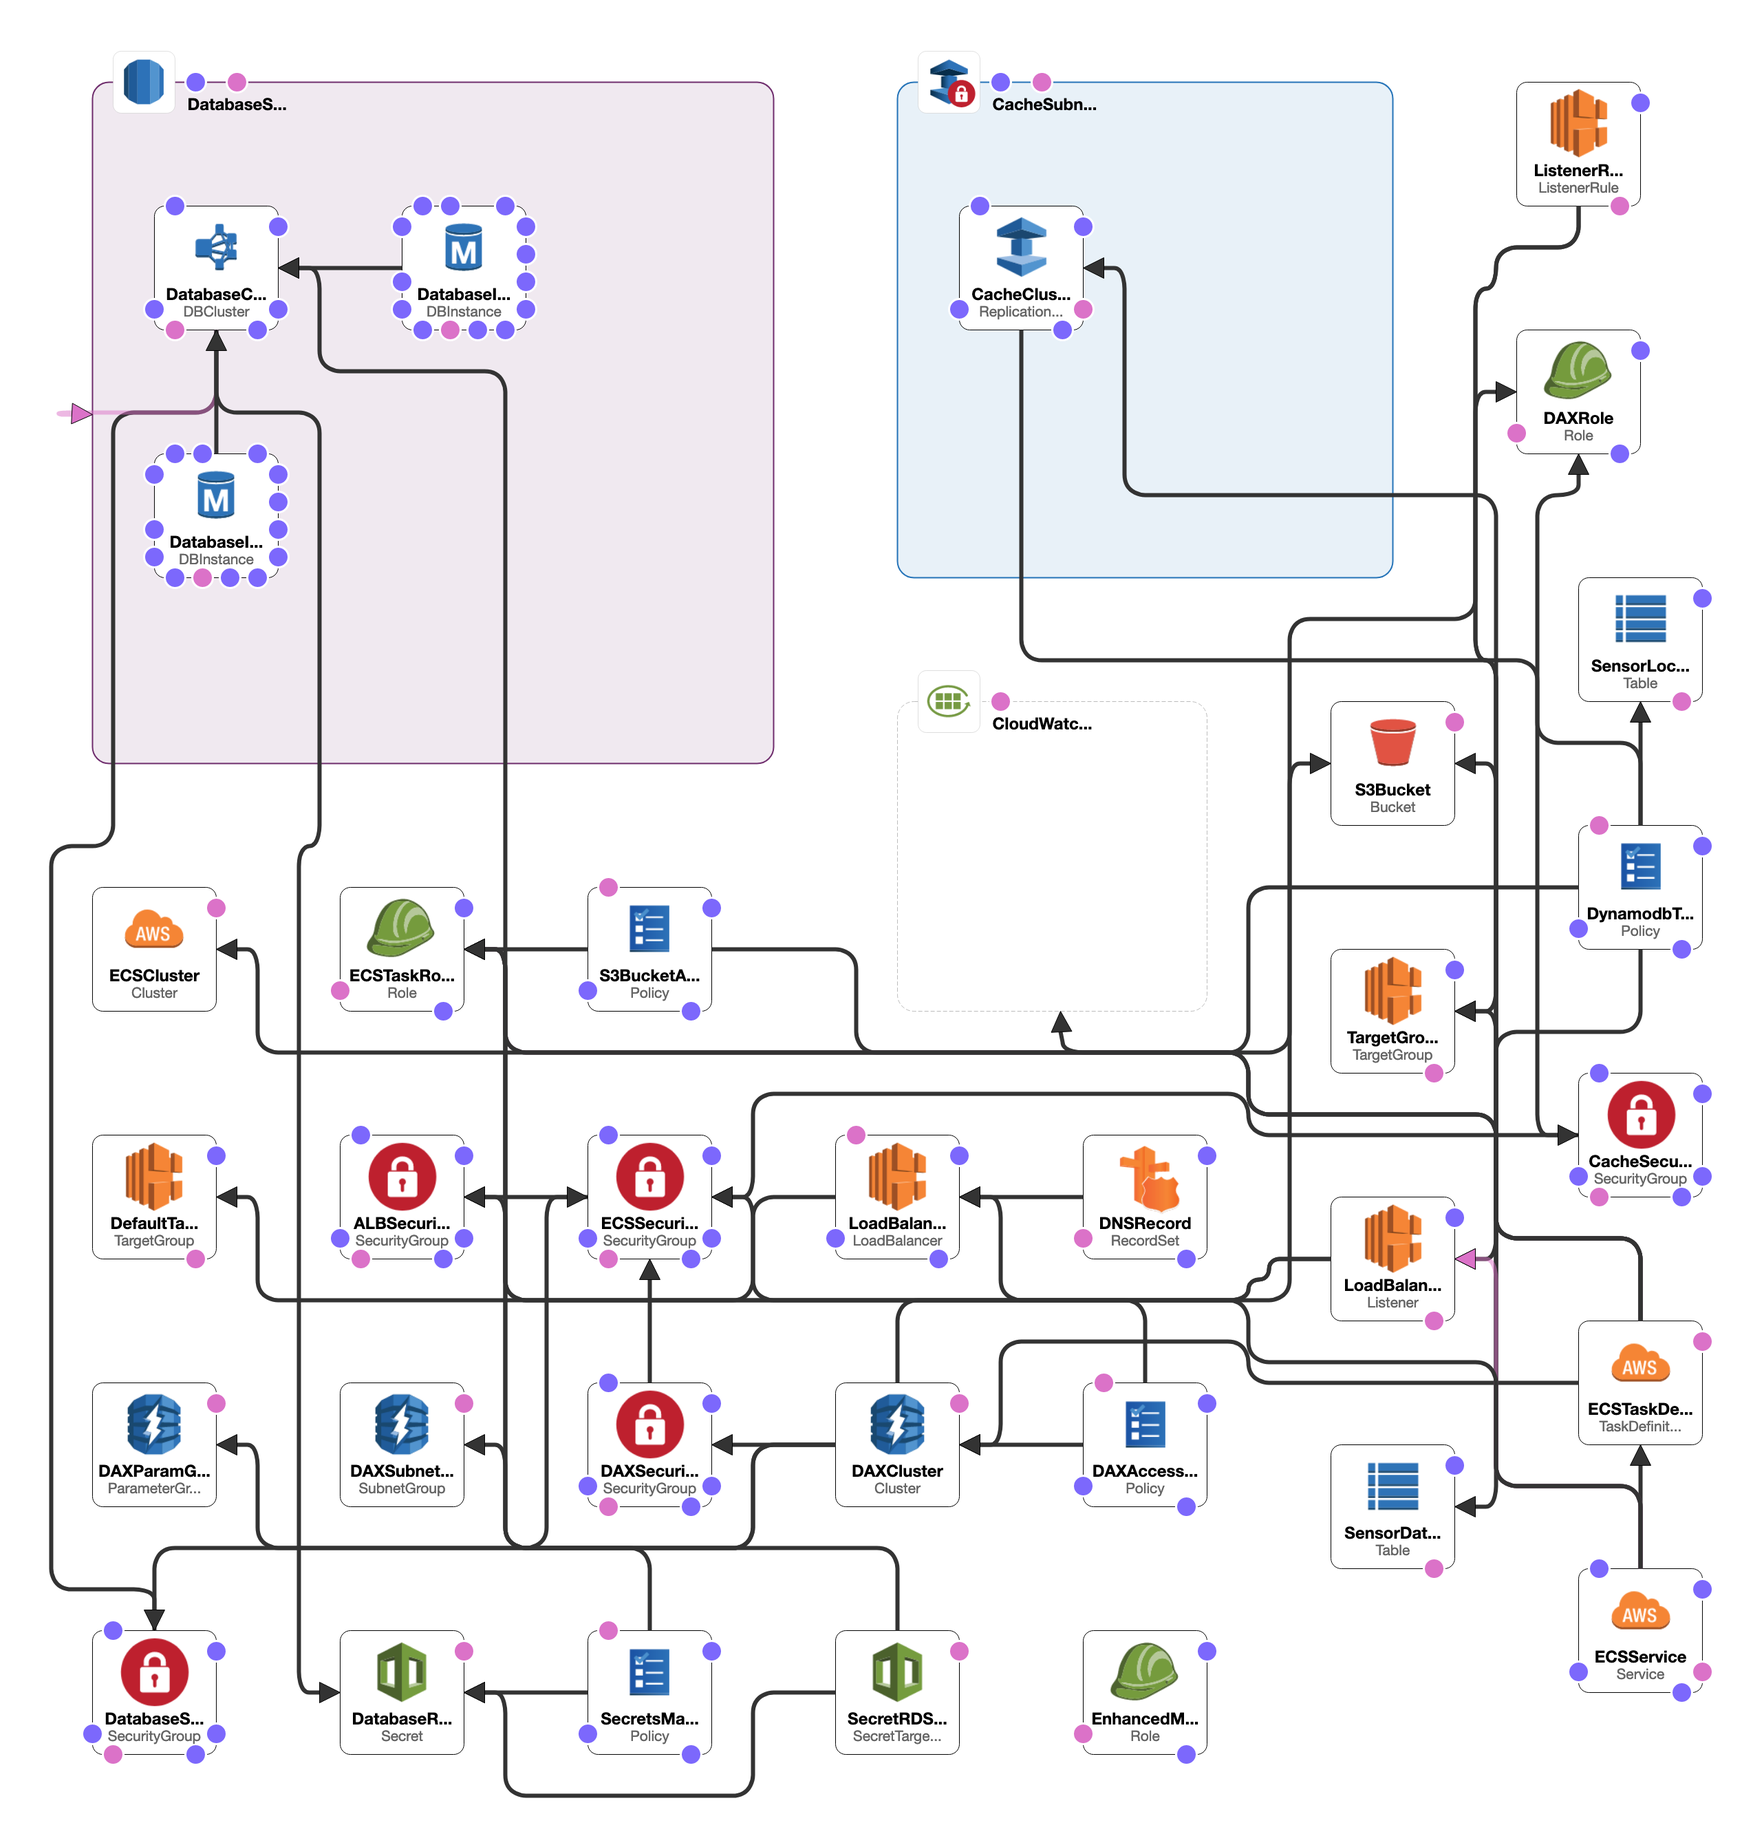
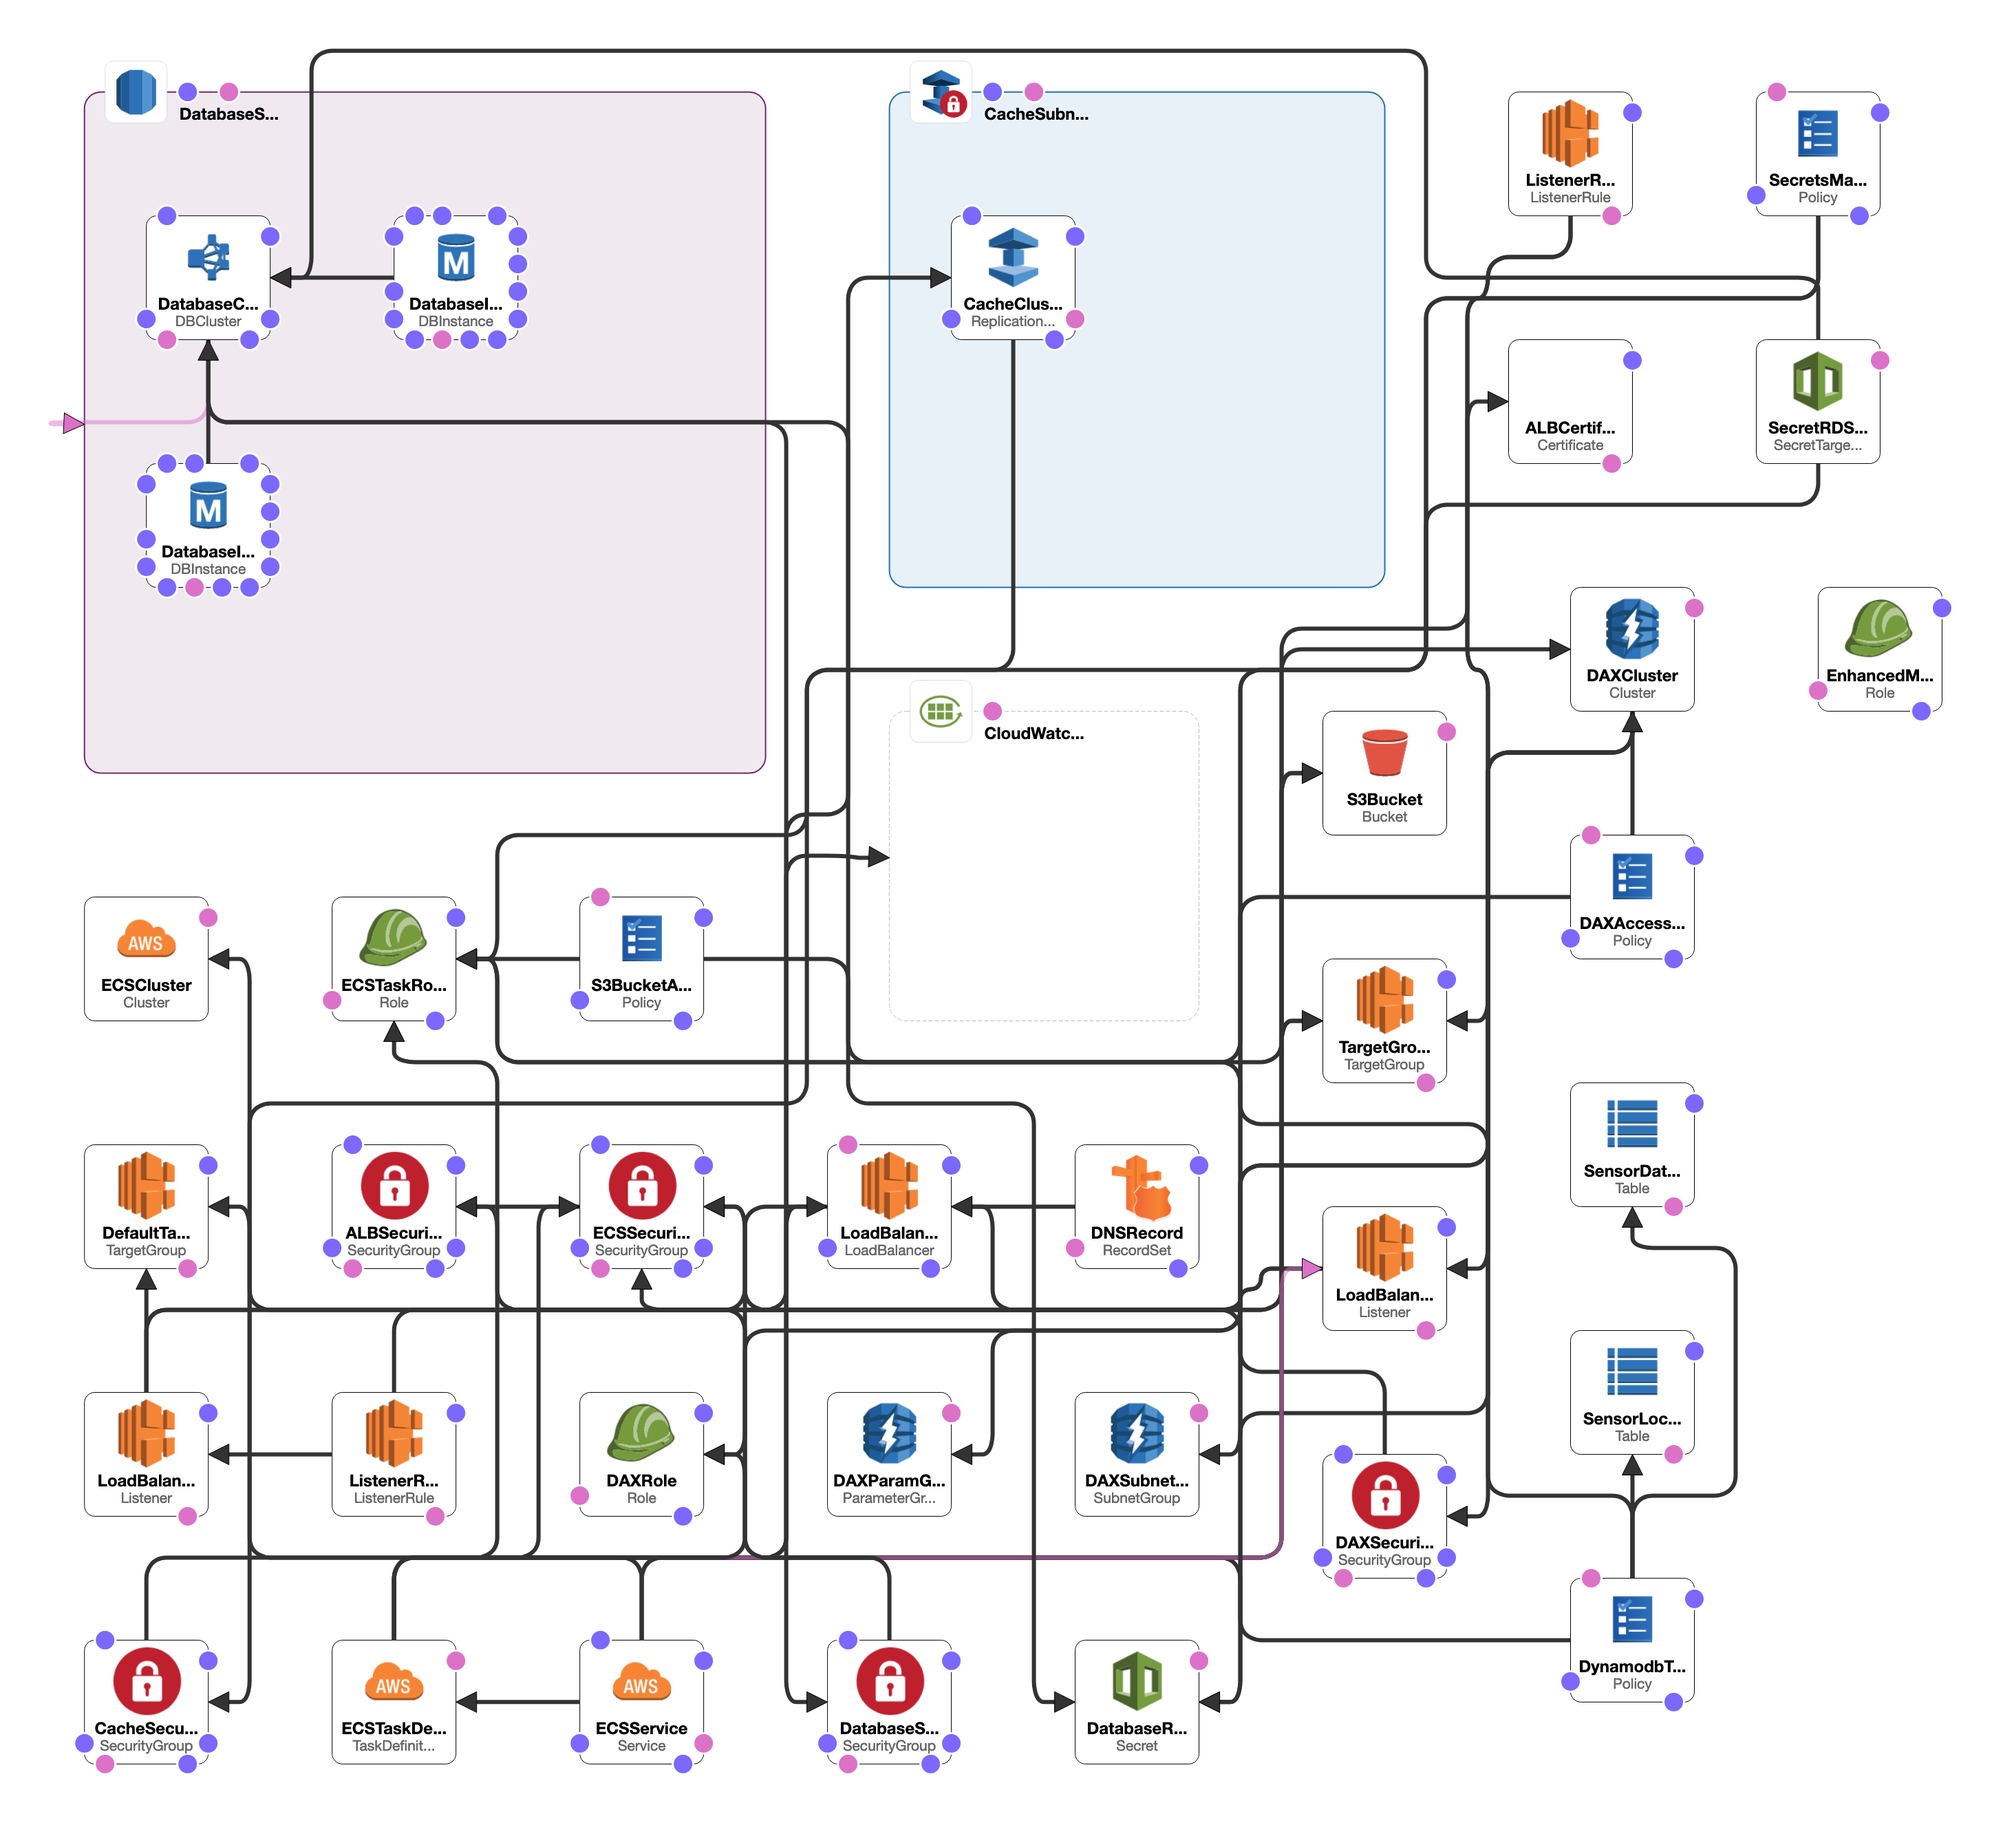
Add location.protocal to JS, add error logging to gunicorn, update cf diagram

diff --git a/demo/app/static/aws-caching.js b/demo/app/static/aws-caching.js
@@ -1,4 +1,4 @@
-var apiBase = "https://"+location.hostname+"/api/v1.0";
+var apiBase = location.protocol+"//"+location.hostname+"/api/v1.0";
 
 function rdsFlushCache() { 
     const xhr = new XMLHttpRequest(),
